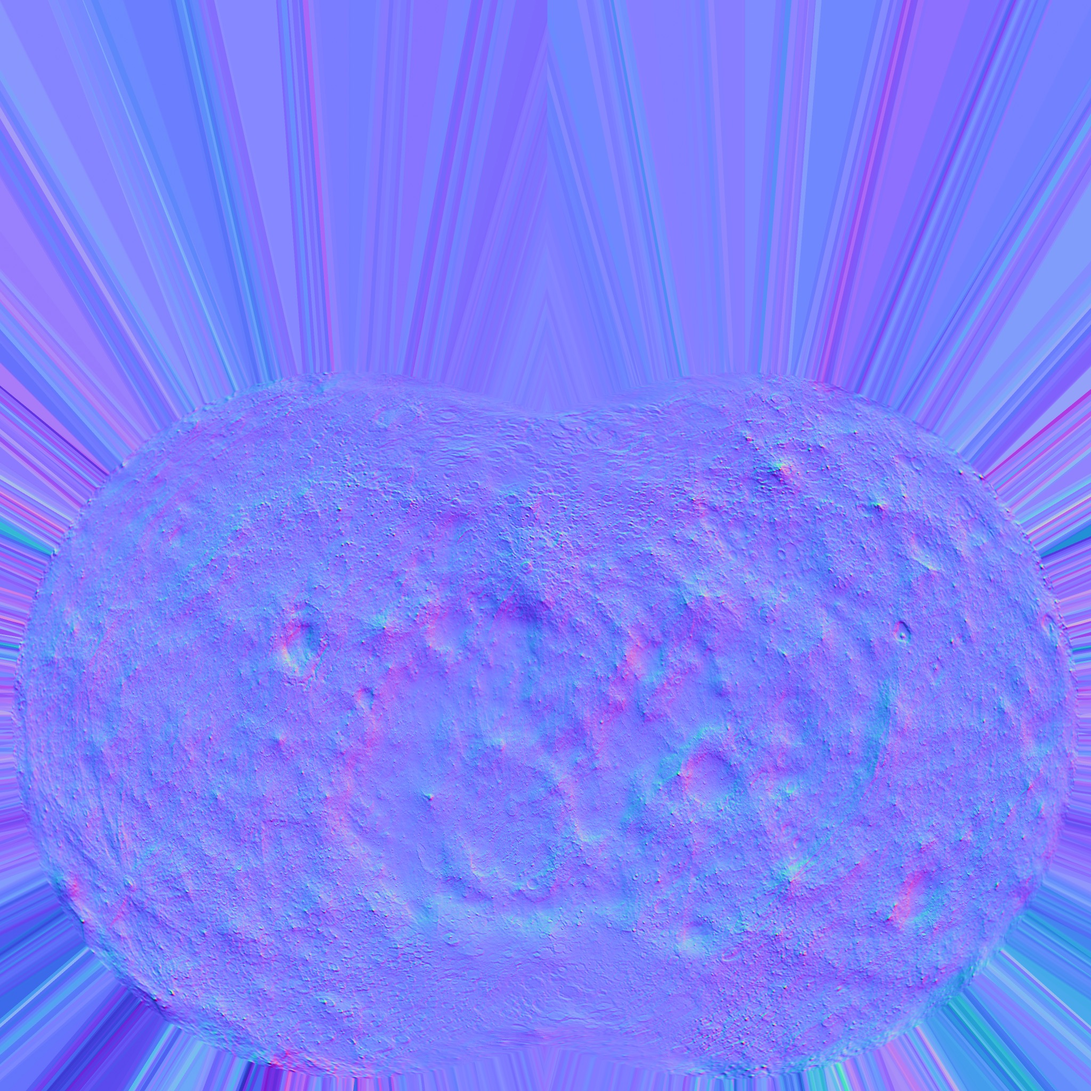
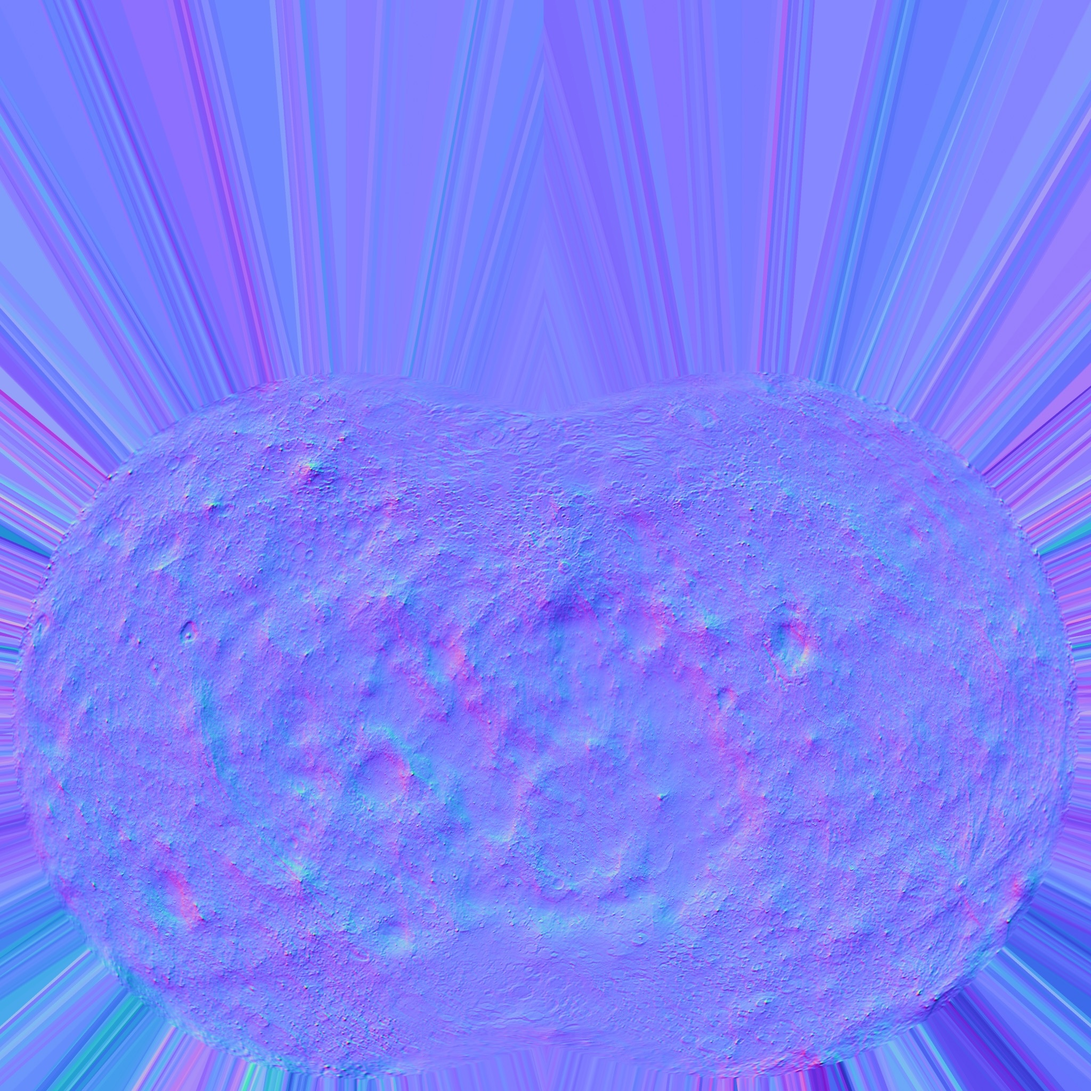
Update for Xcode 15.2

diff --git a/World/Orbit/OrbitModule.swift b/World/Orbit/OrbitModule.swift
@@ -31,7 +31,7 @@ struct OrbitModule: View {
                         .opacity(selection == .satellite ? 1 : 0)
                 }
                 .overlay {
-                    ItemView(item: .moon)
+                    ItemView(item: .moon, orientation: [0, .pi, 0])
                         .opacity(selection == .moon ? 1 : 0)
                 }
                 .overlay {
